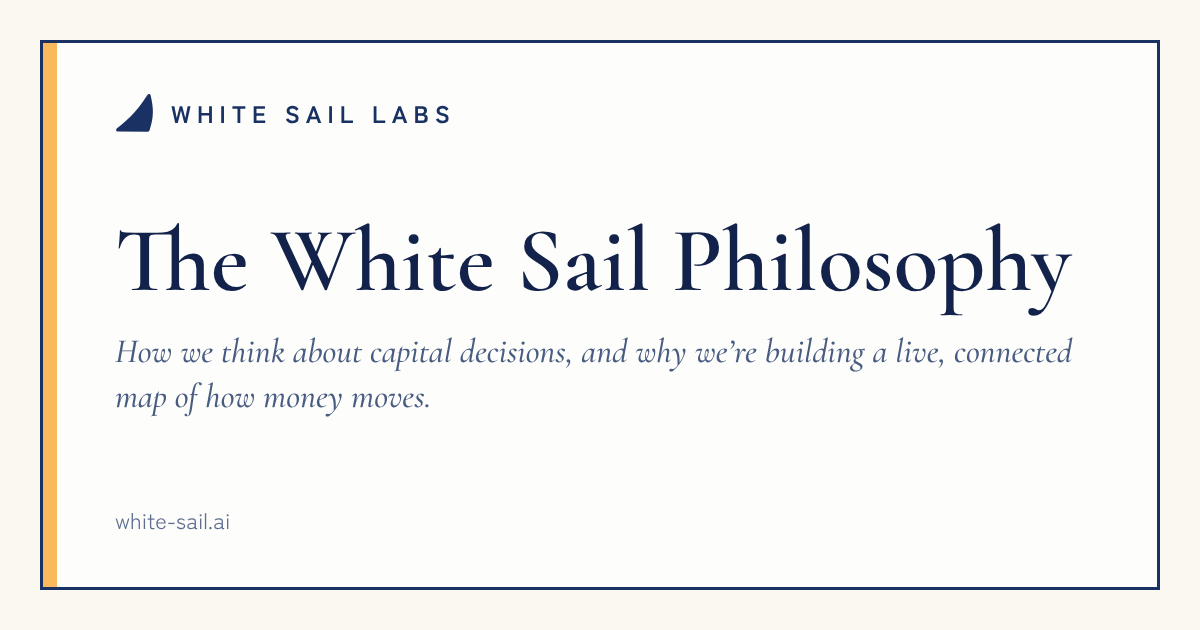
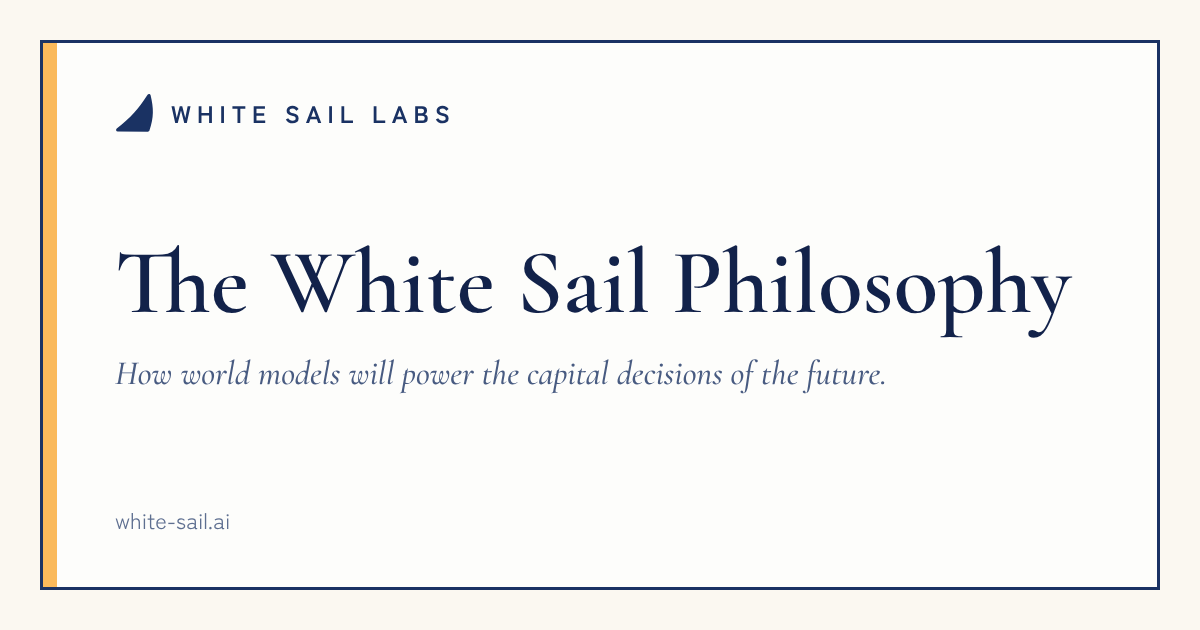
Change the philosophy post's subtitle
How world models will power the capital decisions of the future. The
share card carries the new line.

Claude-Session: https://claude.ai/code/session_01UbcRwMYKB3A7gqsTSQJ75U

Changed region(s): [[0.0925, 0.3619, 0.8942, 0.6635]]

diff --git a/content/blog/the-white-sail-philosophy.md b/content/blog/the-white-sail-philosophy.md
@@ -1,6 +1,6 @@
 ---
 title: The White Sail Philosophy
-subtitle: How we think about capital decisions, and why we’re building a live, connected map of how money moves.
+subtitle: How world models will power the capital decisions of the future.
 date: 2026-11-17
 ---
 
